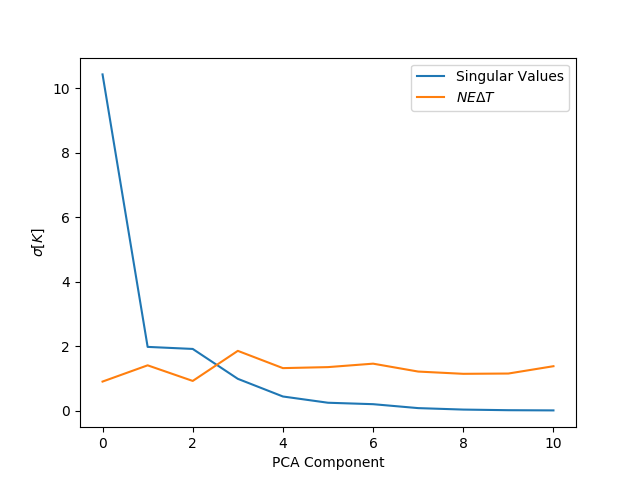
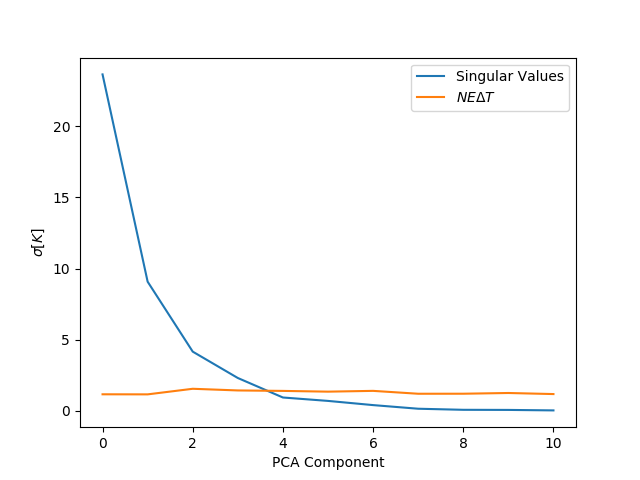
Updated plots.

diff --git a/src/train_clear_sky.py b/src/train_clear_sky.py
@@ -2,43 +2,75 @@ from explore         import IciData
 from keras.models    import Sequential
 from keras.layers    import Dense, Activation
 from sklearn.metrics import roc_curve
+from pca             import PCA
 
 import matplotlib.pyplot as plt
+import numpy as np
 
 training_data = IciData('/home/simonpf/projects/ici/data/sets/full/train.nc')
 test_data     = IciData('/home/simonpf/projects/ici/data/sets/full/test.nc')
 
-# Set up the model
-model = Sequential()
-model.add(Dense(input_dim = 11, units = 32))
-model.add(Activation('relu'))
-model.add(Dense( units = 32))
-model.add(Activation('relu'))
-model.add(Dense( units = 32))
-model.add(Activation('relu'))
-model.add(Dense( units = 32))
-model.add(Activation('relu'))
-model.add(Dense( units = 32))
-model.add(Dense(units = 1))
-model.add(Activation('sigmoid'))
+# Load data and perform SVD
+x_train     = training_data.get_input_data()
+x_test      = test_data.get_input_data()
+u,s,v       = np.linalg.svd(x_train, full_matrices=0)
+pca         = PCA.fromRMatrix(v)
+x_train_pca = pca.apply(x_train)
+x_test_pca  = pca.apply(x_test)
+y_train     = training_data.get_output_data("clear_sky")
+y_test      = test_data.get_output_data("clear_sky")
 
-model.compile(loss='binary_crossentropy', optimizer='sgd', metrics=['accuracy'])
-model.fit(training_data.get_input_data(), training_data.get_output_data("clear_sky"), epochs=5, batch_size=256)
+## Set up train deep models.
+#model_deep = Sequential()
+#model_deep.add(Dense(input_dim = 11, units = 32))
+#model_deep.add(Activation('relu'))
+#model_deep.add(Dense( units = 32))
+#model_deep.add(Activation('relu'))
+#model_deep.add(Dense( units = 32))
+#model_deep.add(Activation('relu'))
+#model_deep.add(Dense( units = 32))
+#model_deep.add(Activation('relu'))
+#model_deep.add(Dense( units = 32))
+#model_deep.add(Dense(units = 1))
+#model_deep.add(Activation('sigmoid'))
+#
+#model_deep.compile(loss='binary_crossentropy', optimizer='sgd', metrics=['accuracy'])
+#
+#model_deep.fit(x_train, y_train, epochs=5, batch_size=32)
+#y_deep = model_deep.predict(x_test)
+#fpr_deep, tpr_deep, ts_deep = roc_curve(y_test, y_deep)
+#
+#model_deep.fit(x_train_pca, y_train, epochs=5, batch_size=32)
+#y_deep_pca = model_deep.predict(x_test_pca)
+#fpr_deep_pca, tpr_deep_pca, ts_deep_pca = roc_curve(y_test, y_deep_pca)
+#
+## display results
+#plt.plot(1.0 - fpr_deep, tpr_deep, label="Deep NN")
+#plt.plot(1.0 - fpr_deep_pca, tpr_deep_pca, label="Deep NN, PCA")
+#plt.legend()
+#plt.show()
 
-y_pred = model.predict(test_data.get_input_data())
-fpr, tpr, ts = roc_curve(test_data.get_output_data('clear_sky'), y_pred)
-plt.plot(1.0 - fpr, tpr)
 
-model = Sequential()
-model.add(Dense(input_dim = 11, units = 64))
-model.add(Activation('linear'))
-model.add(Dense(units = 1))
-model.add(Activation('sigmoid'))
+model_shallow = Sequential()
+model_shallow.add(Dense(input_dim = 11, units = 64))
+model_shallow.add(Activation('sigmoid'))
+model_shallow.add(Dense(units = 1))
+model_shallow.add(Activation('sigmoid'))
 
-model.compile(loss='binary_crossentropy', optimizer='sgd', metrics=['accuracy'])
-model.fit(training_data.get_input_data(), training_data.get_output_data("clear_sky"), epochs=5, batch_size=256)
+model_shallow.compile(loss='binary_crossentropy', optimizer='sgd', metrics=['accuracy'])
 
-y_pred_2 = model.predict(test_data.get_input_data())
-fpr_2, tpr_2, ts_2 = roc_curve(test_data.get_output_data('clear_sky'), y_pred_2)
-plt.plot(1.0 - fpr_2, tpr_2)
+model_shallow.fit(x_train, y_train, epochs=5, batch_size=32)
+y_pred_shallow = model_shallow.predict(x_test)
+fpr_shallow, tpr_shallow, ts_shallow = roc_curve(y_test, y_pred_shallow)
+
+model_shallow.fit(x_train_pca, y_train, epochs=5, batch_size=32)
+y_pred_shallow_pca = model_shallow.predict(x_test_pca)
+fpr_shallow_pca, tpr_shallow_pca, ts_shallow_pca = roc_curve(y_test, y_pred_shallow_pca)
+
+plt.plot(1.0 - fpr_shallow, tpr_shallow, label = "Shallow NN")
+plt.plot(1.0 - fpr_shallow_pca, tpr_shallow_pca, label = "Shallow NN")
+
+plt.title("ROC Curve")
+plt.xlabel("True Positive Rate")
+plt.ylabel("True Negative Rate")
 plt.show()

diff --git a/src/explore.py b/src/explore.py
@@ -32,7 +32,7 @@ class IciData:
 
         # Channels
         if (version < 3):
-            var_name_tb = "tb_cs_ch_"
+            var_name_tb = "tb_fs_ch_"
             var_name_od = "od_cs_ch_"
         else:
             var_name_tb = "dtb_ch_"
@@ -312,10 +312,9 @@ class IciData:
             print("Could not load SVD.")
             u = np.load("data/" + prefix + "u.npy")
             s = np.load("data/" + prefix + "s.npy")
-
         ns = np.sqrt(np.dot(np.transpose(u ** 2), self.noise ** 2))
         plt.figure()
-        plt.plot(s, label =  "Singular Values")
+        plt.plot(s , label =  "Singular Values")
         plt.plot(ns, label = r"$NE \Delta T$")
         ax = plt.gca()
         ax.set_xlabel("PCA Component")
@@ -376,7 +375,7 @@ class IciData:
 
         # Channels
         if (self.version < 3):
-            var_name_tb = "tb_cs_ch_"
+            var_name_tb = "tb_fs_ch_"
             var_name_od = "od_cs_ch_"
         else:
             var_name_tb = "dtb_ch_"
@@ -390,6 +389,10 @@ class IciData:
             channel[:] = self.channels_od[i]
 
         data.close()
+
+    def add_noise(self):
+        for i in range(len(self.channels)):
+            self.channels[i] = self.channels[i] + np.random.normal(loc=0.0, scale=self.noise[i], size=self.channels[i].shape)
 
     def split_data(self, name):
         inds   = np.random.permutation(self.n)

diff --git a/src/pca.py b/src/pca.py
@@ -22,9 +22,12 @@ class PCA:
         """
         assert (mat.shape[-1] == self.n) or (mat.shape[-2] == self.n)
         if (mat.shape[-1] == self.n):
-            return np.tensordot(self.u, mat, [1, mat.ndim - 1])
-        else if (mat.shape[-2] == self.n):
-            return np.tensordot(self.u, mat, [1, mat.ndim - 2])
+            dmat = mat
+            return np.tensordot(dmat, self.u, [mat.ndim - 1, 1])
+
+        elif (mat.shape[-2] == self.n):
+            dmat = mat
+            return np.tensordot(self.u, dmat, [1, mat.ndim - 2])
 
     def revert(self, mat):
         """
@@ -33,8 +36,8 @@ class PCA:
         """
         assert (mat.shape[-1] == self.n) or (mat.shape[-2] == self.n)
         if (mat.shape[-1] == self.n):
-            return np.tensordot(self.u, mat, [0, mat.ndim - 1])
-        else if (mat.shape[-2] == self.n):
+            return np.tensordot(mat, self.u, [mat.ndim - 1, 0])
+        elif (mat.shape[-2] == self.n):
             return np.tensordot(self.u, mat, [0, mat.ndim - 2])
 
     @classmethod

diff --git a/src/test/pca_test.py b/src/test/pca_test.py
@@ -38,6 +38,12 @@ class TestPCA(unittest.TestCase):
         z   = pca.revert(y)
         self.assertTrue(np.allclose(z, self.x))
 
+    def test_transform_transposed(self):
+        pca = PCA.fromCMatrix(self.u)
+        y   = pca.apply(np.transpose(self.x))
+        z   = pca.revert(y)
+        self.assertTrue(np.allclose(z, np.transpose(self.x)))
+
     def cleanUp(self):
         os.remove('u.py')
 
